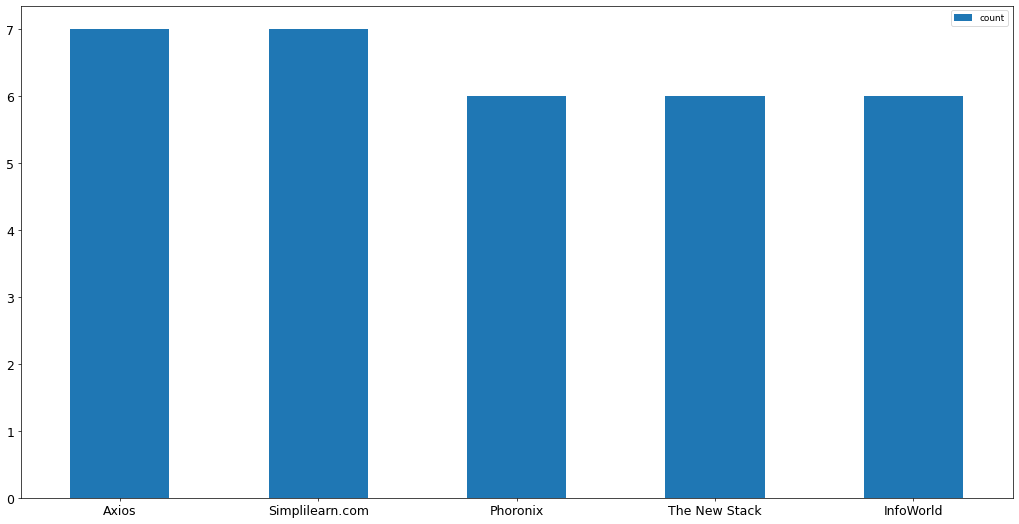
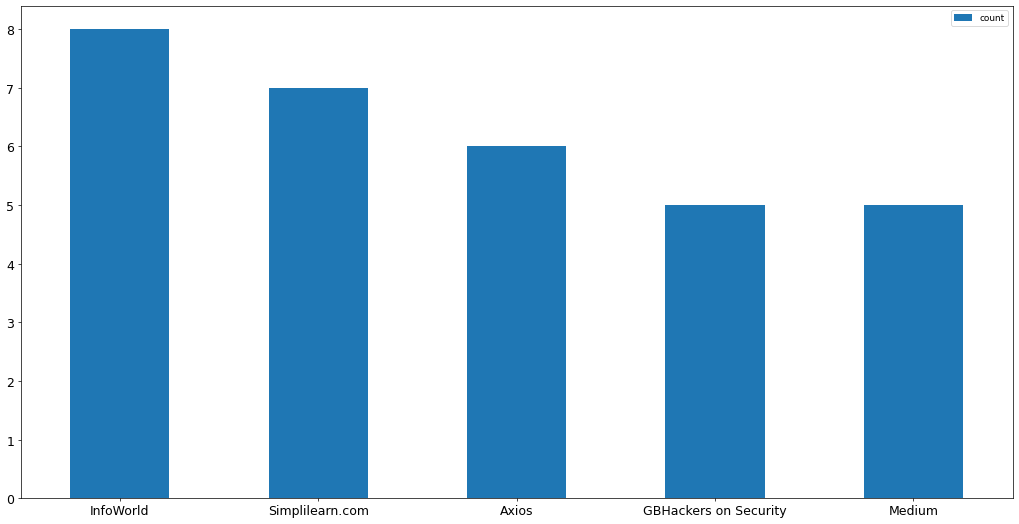
Update News

diff --git a/README.md b/README.md
@@ -6,21 +6,21 @@ The articles are then parsed and output to a markdown file using [Pandas](https:
 
 A GitHub action schedules the scraping to run every day and update the README.md file.
 
-## Thursday March 14 2024
+## Friday March 15 2024
 
 
-| Title                                                                                 | Website         | Link                                                                                                               |
-|:--------------------------------------------------------------------------------------|:----------------|:-------------------------------------------------------------------------------------------------------------------|
-| 5 Exciting New JavaScript Features in 2024 — SitePoint                                | SitePoint       | https://www.sitepoint.com/new-javascript-ecmascript/                                                               |
-| JavaScript Objects: From Fundamentals to Advanced Techniques                          | HackerNoon      | https://hackernoon.com/javascript-objects-from-fundamentals-to-advanced-techniques                                 |
-| JavaScript Reference Guide: An Introduction to Pure JavaScript                        | ITPro Today     | https://www.itprotoday.com/programming-languages/javascript-reference-guide-beginners-introduction-pure-javascript |
-| CISA and open-source operators of Rust, JavaScript make new cybersecurity commitments | Axios           | https://www.axios.com/2024/03/07/biden-admin-open-source-security-promises                                         |
-| 5 Things You No Longer Need JavaScript to Do                                          | Medium          | https://medium.com/@xiuerold/5-things-you-no-longer-need-javascript-to-do-a4c21e4332ac                             |
-| Rust-based WinterJS web server reaches 1.0                                            | InfoWorld       | https://www.infoworld.com/article/3714444/rust-based-winterjs-web-server-reaches-10.html                           |
-| Hacked WordPress Sites Abusing Visitors' Browsers for Distributed Brute-Force Attacks | The Hacker News | https://thehackernews.com/2024/03/hacked-wordpress-sites-abusing-visitors.html                                     |
-| Top 40 ReactJS Interview Questions and Answers in 2024                                | Simplilearn.com | https://www.simplilearn.com/tutorials/reactjs-tutorial/reactjs-interview-questions                                 |
-| What Is Ethers.js? A Deep Dive Into Ethereum's JavaScript Library                     | BeInCrypto      | https://beincrypto.com/learn/ethers-js-explained/                                                                  |
-| TypeScript 5.4 Adds NoInfer Type                                                      | I Programmer    | https://www.i-programmer.info/news/167-javascript/17035-typescript-54-adds-noinfer-type.html                       |
+| Title                                                                                    | Website         | Link                                                                                                                           |
+|:-----------------------------------------------------------------------------------------|:----------------|:-------------------------------------------------------------------------------------------------------------------------------|
+| 5 Exciting New JavaScript Features in 2024 — SitePoint                                   | SitePoint       | https://www.sitepoint.com/new-javascript-ecmascript/                                                                           |
+| JavaScript Reference Guide: An Introduction to Pure JavaScript                           | ITPro Today     | https://www.itprotoday.com/programming-languages/javascript-reference-guide-beginners-introduction-pure-javascript             |
+| Best programming languages to learn: JavaScript, Python, SQL, and Java top the list      | Fortune         | https://fortune.com/education/articles/best-programming-languages-to-learn/                                                    |
+| 5 Things You No Longer Need JavaScript to Do                                             | Medium          | https://medium.com/@xiuerold/5-things-you-no-longer-need-javascript-to-do-a4c21e4332ac?responsesOpen=true&sortBy=REVERSE_CHRON |
+| Rust-based WinterJS web server reaches 1.0                                               | InfoWorld       | https://www.infoworld.com/article/3714444/rust-based-winterjs-web-server-reaches-10.html                                       |
+| Top 40 ReactJS Interview Questions and Answers in 2024                                   | Simplilearn.com | https://www.simplilearn.com/tutorials/reactjs-tutorial/reactjs-interview-questions                                             |
+| What Is Ethers.js? A Deep Dive Into Ethereum's JavaScript Library                        | BeInCrypto      | https://beincrypto.com/learn/ethers-js-explained/                                                                              |
+| TypeScript 5.4 Adds NoInfer Type                                                         | I Programmer    | https://www.i-programmer.info/news/167-javascript/17035-typescript-54-adds-noinfer-type.html                                   |
+| Complexity bad: An interview with HTMX creator Carson Gross                              | InfoWorld       | https://www.infoworld.com/article/3713164/complexity-bad-an-interview-with-carson-gross.html                                   |
+| Top Artificial Intelligence (AI) Tools That Can Generate Code To Help Programmers (2024) | MarkTechPost    | https://www.marktechpost.com/2024/03/14/top-artificial-intelligence-ai-tools-that-can-generate-code-to-help-programmers/       |
 ## Top Sites for Past 7 Days
 
 ![Graph of Top Sites](https://raw.githubusercontent.com/dan-mba/python-selenium-news/main/last-week.png)
